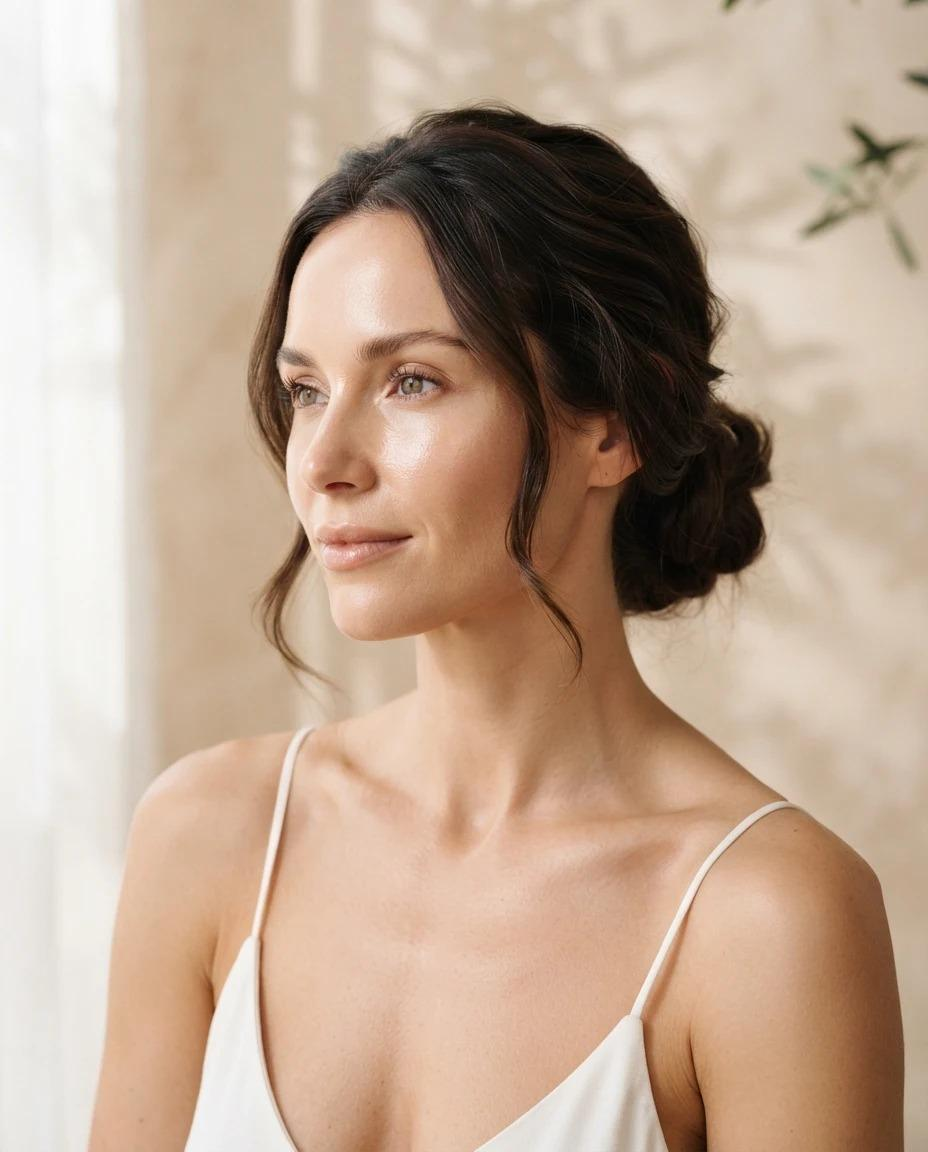
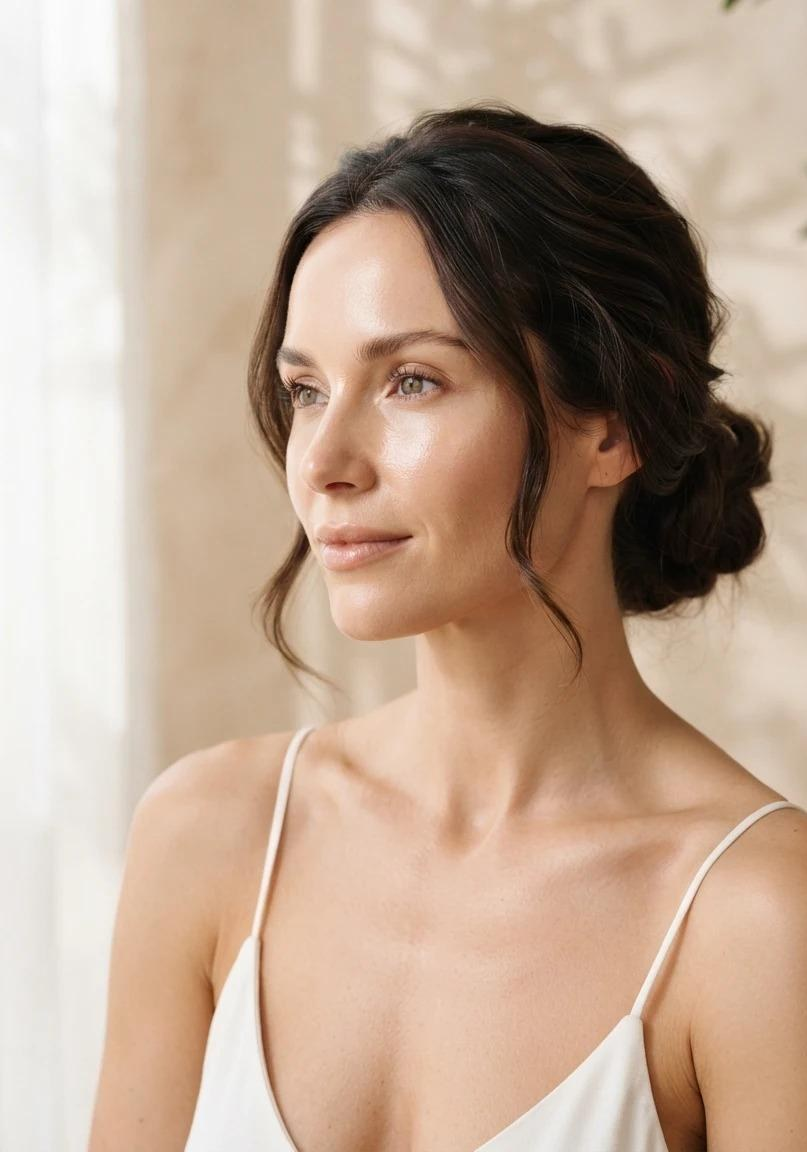
vitrine(alva-estetica): hero full-bleed (crop 13% dir + fade), selo circular sem sobreposicao, overlay da faixa reforcado

diff --git a/src/components/models/AlvaFold.tsx b/src/components/models/AlvaFold.tsx
@@ -58,17 +58,25 @@ export function AlvaFold({ client }: { client?: { name?: string; whatsapp?: stri
         .alva .seals{display:grid;grid-template-columns:repeat(4,1fr)}
         .alva .seal{display:flex;align-items:center;justify-content:center;gap:12px;padding:30px 10px;font:500 11px 'Jost',sans-serif;letter-spacing:.16em;color:${INK};text-align:center}
         .alva .seal + .seal{border-left:1px solid ${LINE}}
-        .alva .badge{position:absolute;right:-26px;bottom:-26px;width:128px;height:128px;animation:spin 18s linear infinite}
+        .alva .hero-full{position:relative;overflow:hidden;min-height:860px;display:flex;align-items:center}
+        .alva .hero-full > img{position:absolute;inset:0;width:100%;height:100%;object-fit:cover;object-position:62% 26%}
+        .alva .hero-full .fade{position:absolute;inset:0;background:linear-gradient(90deg,#f5f0ea 0%,rgba(245,240,234,.95) 26%,rgba(245,240,234,.55) 48%,rgba(245,240,234,0) 68%)}
+        .alva .hero-full .wrap{position:relative;z-index:2;width:100%;padding-top:90px;padding-bottom:90px}
+        .alva .badge{position:absolute;right:56px;bottom:44px;width:128px;height:128px;animation:spin 18s linear infinite;z-index:3}
         @keyframes spin{to{transform:rotate(360deg)}}
         @media (max-width: 900px){
           .alva nav{display:none!important}
           .alva .band > div:first-child{aspect-ratio:auto!important;min-height:560px}
           .alva .duo{grid-template-columns:1fr!important}
           .alva .serif-xl{font-size:42px!important}
-          .alva .hero-photo{max-width:440px;margin:0 auto;width:100%}
           .alva .seals{grid-template-columns:repeat(2,1fr)}
           .alva .seal + .seal{border-left:none}
-          .alva .badge{right:0;bottom:-20px;width:104px;height:104px}
+          .alva .badge{top:72px;right:12px;bottom:auto;width:104px;height:104px}
+          .alva .hero-full{min-height:640px;align-items:flex-end}
+          .alva .hero-full > img{object-position:66% 18%}
+          .alva .hero-full .fade{background:linear-gradient(180deg,rgba(245,240,234,.2) 0%,rgba(245,240,234,.62) 46%,#f5f0ea 84%)}
+          .alva .hero-full .wrap{padding:140px 28px 46px}
+          .alva .hero-full .caps{max-width:230px}
         }
         @media (max-width: 560px){ .alva .cards{grid-template-columns:1fr} }
       `}</style>
@@ -89,10 +97,12 @@ export function AlvaFold({ client }: { client?: { name?: string; whatsapp?: stri
         </div>
       </header>
 
-      {/* HERO */}
-      <section style={{ padding: "60px 0 90px" }}>
-        <div className="wrap duo" style={{ display: "grid", gridTemplateColumns: "6fr 6fr", gap: 64, alignItems: "center" }}>
-          <div>
+      {/* HERO full-bleed */}
+      <section className="hero-full">
+        <img src="/alva-hero.jpg" alt="Retrato editorial de mulher com pele radiante em fundo bege com sombras de folhas" />
+        <div className="fade" />
+        <div className="wrap">
+          <div style={{ maxWidth: 520 }}>
             <p className="caps">CUIDADO AVANÇADO. RESULTADOS NATURAIS.</p>
             <h1 className="serif serif-xl" style={{ fontSize: 64, lineHeight: 1.08, margin: "26px 0 0" }}>SUA MELHOR<br />VERSÃO,<br />REFINADA.</h1>
             <div style={{ width: 44, height: 2, background: GOLD, margin: "30px 0" }} />
@@ -101,18 +111,15 @@ export function AlvaFold({ client }: { client?: { name?: string; whatsapp?: stri
               <button className="pill pill-g" onClick={() => book(`Olá! Quero agendar uma avaliação na ${brand}.`)}>AGENDAR AVALIAÇÃO</button>
             </div>
           </div>
-          <div className="hero-photo" style={{ position: "relative" }}>
-            <Ph src="/alva-hero.jpg" alt="Retrato editorial de mulher com pele radiante em fundo bege com sombras de folhas" ratio="4/5" />
-            <svg className="badge" viewBox="0 0 128 128" aria-hidden>
-              <defs><path id="circ" d="M 64,64 m -46,0 a 46,46 0 1,1 92,0 a 46,46 0 1,1 -92,0" /></defs>
-              <circle cx="64" cy="64" r="64" fill={CRM} opacity=".92" />
-              <text style={{ font: "500 10.5px 'Jost',sans-serif", letterSpacing: ".24em", fill: INK }}>
-                <textPath href="#circ">CIÊNCIA · BELEZA NATURAL · RESULTADOS REAIS ·</textPath>
-              </text>
-              <text x="64" y="74" textAnchor="middle" style={{ font: "500 34px 'Playfair Display',serif", fill: INK }}>a</text>
-            </svg>
-          </div>
         </div>
+        <svg className="badge" viewBox="0 0 128 128" aria-hidden>
+          <defs><path id="circ" d="M 64,64 m -46,0 a 46,46 0 1,1 92,0 a 46,46 0 1,1 -92,0" /></defs>
+          <circle cx="64" cy="64" r="64" fill={CRM} opacity=".92" />
+          <text textLength="288" lengthAdjust="spacingAndGlyphs" style={{ font: "500 10px 'Jost',sans-serif", letterSpacing: ".12em", fill: INK }}>
+            <textPath href="#circ">CIÊNCIA · BELEZA NATURAL · RESULTADOS REAIS ·</textPath>
+          </text>
+          <text x="64" y="74" textAnchor="middle" style={{ font: "500 34px 'Playfair Display',serif", fill: INK }}>a</text>
+        </svg>
       </section>
 
       {/* TRATAMENTOS */}
@@ -143,7 +150,7 @@ export function AlvaFold({ client }: { client?: { name?: string; whatsapp?: stri
       {/* FAIXA CLÍNICA */}
       <section id="sobre" className="band" style={{ position: "relative" }}>
         <Ph src="/alva-clinica.jpg" alt="Recepção elegante de clínica de estética com balcão de pedra e poltronas claras" ratio="16/7" wide />
-        <div style={{ position: "absolute", inset: 0, background: "linear-gradient(90deg, rgba(43,33,24,.42), rgba(43,33,24,.06) 55%)" }} />
+        <div style={{ position: "absolute", inset: 0, background: "linear-gradient(90deg, rgba(30,21,14,.66) 0%, rgba(30,21,14,.34) 36%, rgba(30,21,14,.02) 62%)" }} />
         <div className="wrap" style={{ position: "absolute", inset: 0, display: "flex", alignItems: "center" }}>
           <div style={{ maxWidth: 460 }}>
             <p className="caps" style={{ color: "#efe7db" }}>BELEZA. CONFIANÇA. VOCÊ.</p>
